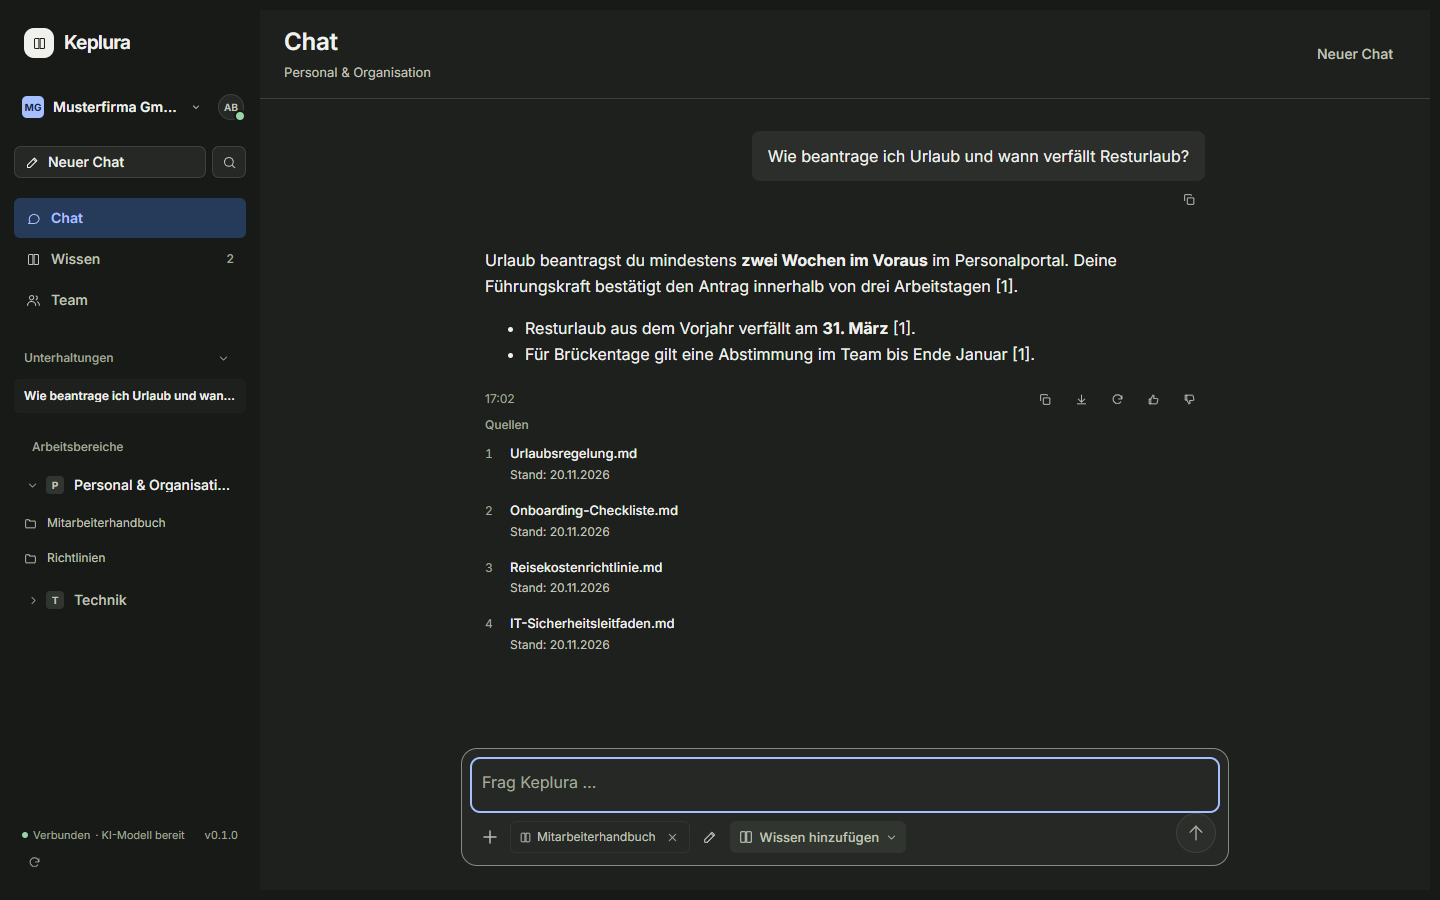
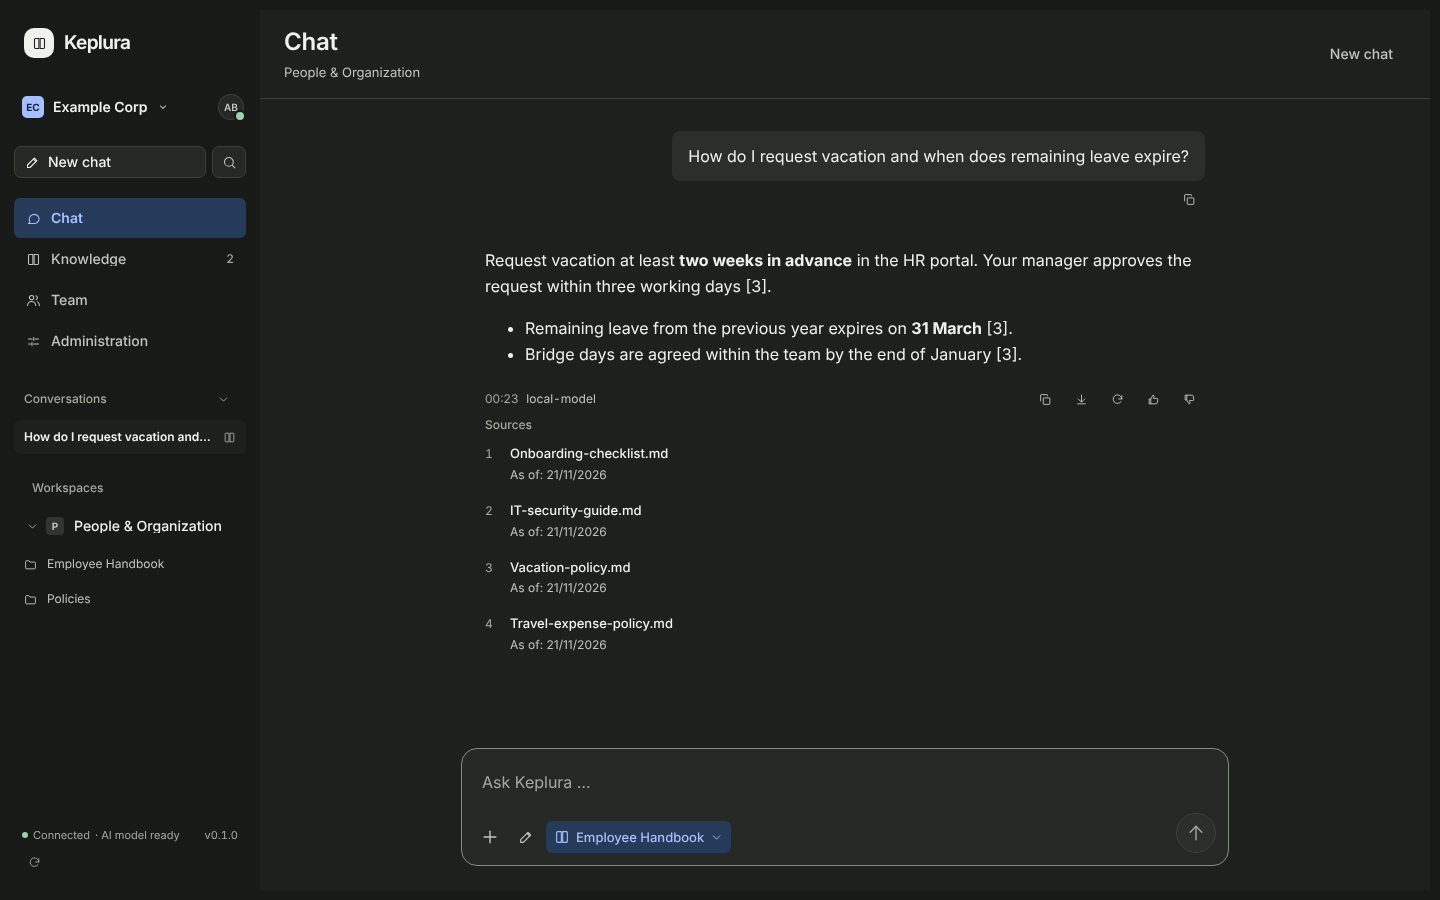
docs: English README screenshots
Screenshots recreated with the English UI via
desktop/e2e/readme_screenshots.cjs (fictitious data, model stand-in).

diff --git a/desktop/src/i18n-en.ts b/desktop/src/i18n-en.ts
@@ -193,7 +193,6 @@ export const EN: Record<string, string> = {
   "Noch kein Arbeitsbereich": "No workspace yet",
   "Ein Arbeitsbereich bündelt Wissen und Chats eines Teams, zum Beispiel „Vertrieb“ oder „Produktion“.": "A workspace bundles a team's knowledge and chats, for example “Sales” or “Production”.",
   "Arbeitsbereich anlegen": "Create workspace",
-  "{0} · Dateien und Inhalte dieser Wissensbasis": "{0} · Files and content of this knowledge base",
   "Dokument": "Document",
   "Dateien hochladen": "Upload files",
   "In dieser Wissensbasis suchen": "Search this knowledge base",
@@ -953,7 +952,7 @@ export const EN: Record<string, string> = {
   "Das Dokument konnte nicht gelesen werden. Versuche „Erneut verarbeiten“.": "The document could not be read. Try “Process again”.",
   "Vermutlich ein eingescanntes Dokument ohne Text. Texterkennung (OCR) ist nicht verfügbar.": "Probably a scanned document without text. Text recognition (OCR) is not available.",
   "Dieser Dateityp wird gespeichert, aber nicht durchsucht.": "This file type is stored but not searched.",
-  "{0} Byte": "{0} bytes",
+  "{0} Byte": "{0} B",
   "Word": "Word",
   "Excel": "Excel",
   "PowerPoint": "PowerPoint",
@@ -995,4 +994,6 @@ export const EN: Record<string, string> = {
   "Server-Operatoren": "Server operators",
   "Ersteller-Besitzer": "Creator owner",
   "unbekannt": "unknown",
+  "Dokument · Dateien und Inhalte dieser Wissensbasis": "document · Files and content of this knowledge base",
+  "Dokumente · Dateien und Inhalte dieser Wissensbasis": "documents · Files and content of this knowledge base",
 };

diff --git a/desktop/src/components/KnowledgePanel.vue b/desktop/src/components/KnowledgePanel.vue
@@ -377,7 +377,7 @@ async function reloadAll() {
       >
         <template v-if="auth.selectedKb">
           <div class="kx-head">
-            <div class="kx-heading"><h2 class="kx-title">{{ auth.selectedKb.name }}</h2><p class="kx-description"><span class="ic-num">{{auth.documents.length}}</span> {{ $t("{0} · Dateien und Inhalte dieser Wissensbasis", auth.documents.length === 1 ? $t("Dokument") : $t("Dokumente")) }}</p></div>
+            <div class="kx-heading"><h2 class="kx-title">{{ auth.selectedKb.name }}</h2><p class="kx-description"><span class="ic-num">{{auth.documents.length}}</span> {{ auth.documents.length === 1 ? $t("Dokument · Dateien und Inhalte dieser Wissensbasis") : $t("Dokumente · Dateien und Inhalte dieser Wissensbasis") }}</p></div>
             <Button variant="primary" data-testid="knowledge-upload-button" :disabled="uploading" @click="openFilePicker"><AppIcon name="upload" :size="16" />{{ $t("Dateien hochladen") }}</Button>
             <input
               id="knowledge-upload"

diff --git a/README.md b/README.md
@@ -10,13 +10,14 @@ and questions stay in-house.
 > not reached a beta release yet. Run it as a pilot or for evaluation, not as
 > your only copy of important data. See [Known limitations](#known-limitations).
 >
-> The user interface is currently **German only**.
+> The user interface is available in **English and German**. It follows the
+> system language; switch it in the account menu or on the sign-in screen.
 
 ![Chat answer with source citations (dark mode)](docs/assets/screenshots/chat-dark.png)
 
 <sub>Screenshots use fictitious sample data. Retrieval and citations are real.
 The model answer in the chat screenshot was streamed from a local stand-in, not
-a real language model.</sub>
+a real language model. Recreate them with `desktop/e2e/readme_screenshots.cjs`.</sub>
 
 ## What Keplura does
 
@@ -154,7 +155,8 @@ private repository: pull request numbers up to #95 and evidence paths under
 ## Known limitations
 
 - Pre-release software: no stable release, no long-term support promise yet.
-- User interface in German only.
+- Server messages (errors, sync and check results) are still German in the
+  English interface.
 - One server instance. Sessions are held in server memory, so a restart signs
   everyone out (no data loss). No high-availability setup.
 - The desktop app gets its server URL at build time (`VITE_SERVER_URL`).

diff --git a/CHANGELOG.md b/CHANGELOG.md
@@ -12,6 +12,11 @@ the first tagged release (planned `0.1.0`, see [docs/RELEASING.md](docs/RELEASIN
 
 ### Added
 
+- English user interface. The desktop app follows the system language and
+  can be switched between English and German in the account menu or on the
+  sign-in screen. `scripts/check-i18n.cjs` fails the build when an English
+  text is missing. README screenshots now show the English interface
+  (`desktop/e2e/readme_screenshots.cjs`).
 - Licensed under the Apache License 2.0 (`LICENSE`, `NOTICE`, license
   metadata in `server/pom.xml`, `desktop/package.json` and both `Cargo.toml`).
 - Open-source preparation: public README with screenshots, installation and

diff --git a/docs/OPERATIONS.md b/docs/OPERATIONS.md
@@ -103,7 +103,8 @@ Status at version 0.1.0 (pre-release):
 
 - **No stable release yet.** Versions are `0.x`; updates may need manual steps
   described in the changelog. No long-term support commitment.
-- **German UI only.** The interface and most operator texts are German.
+- **UI in English and German.** Server messages (errors, sync and check
+  results) and most operator texts are still German.
 - **Single instance.** Sessions live in server memory: a restart signs all
   users out (no data loss). No clustering or high availability.
 - **Desktop app:** server URL fixed at build time; no auto-update; Windows and
